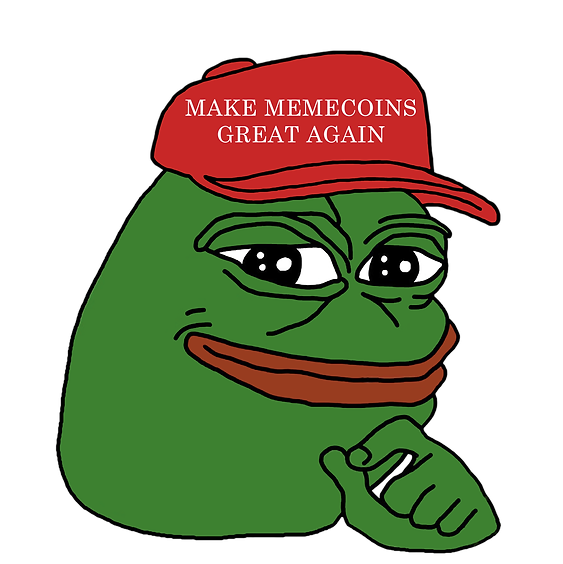
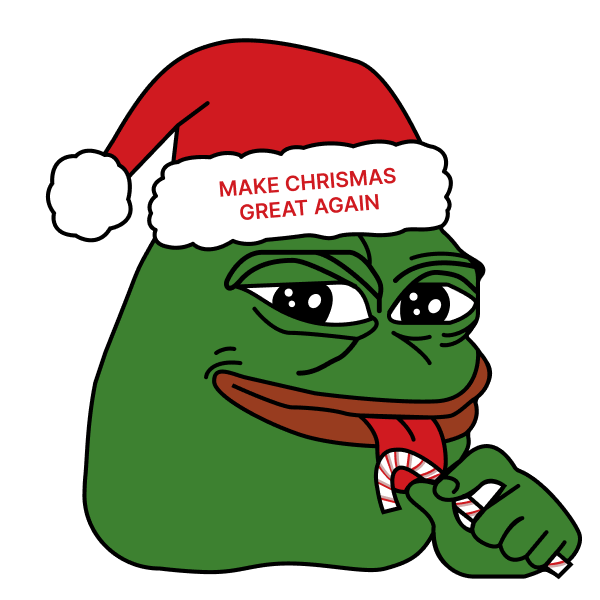
final fixing

diff --git a/index.html b/index.html
@@ -23,16 +23,16 @@
   <header class="header">
     <div class="container" id="head">
       <div class="logo">
-        <img src="./images/pepe_header.png" alt="logo image" class="logo_image">
+        <img src="./images/pepe_header.svg" alt="logo image" class="logo_image">
         <h3 class="name">Pepe Xmas</h3>
       </div>
       <div class="burger" id="burger_button">
       </div>
       <div class="links" id="link_block">
         <div class="links_wrapper">
-          <a href="#about" class="link">About</a>
-          <a href="#how_to_buy" class="link">How to buy</a>
-          <a href="#tokenomic" class="link">Tokenomics</a>
+          <a href="#about" class="link">about</a>
+          <a href="#how_to_buy" class="link">how to buy</a>
+          <a href="#tokenomic" class="link">tokenomics</a>
           <a href="#" class="link" id="button_link">Buy now</a>        </div>
         </div>
     </div>
@@ -42,11 +42,11 @@
       <div class="main_info">
         <div class="paragraph">
           <h2 class="title" id="main_title">$PXMAS</h2>
-          <p class="main_text">The most memeable memecoin |in existence.The dogs have had their day, it’s time for Pepe to take reign.</p>
+          <p class="main_text">The most memeable memecoin is staging a comeback. Even the dogs are getting gifts on this Christmas. It's time for Pepe to lead the New Year's Bull Run.</p>
           <div class="icons">
-            <img src="./images/new_icons/twitter.webp" alt="icon" class="paragraph_icon">
-            <img src="./images/new_icons/dextools.webp" alt="icon" class="paragraph_icon">
-            <img src="./images/new_icons/etherscan.webp" alt="icon" class="paragraph_icon">
+            <img src="./images/new_icons/X.svg" alt="icon" class="paragraph_icon">
+            <img src="./images/new_icons/dextools.svg" alt="icon" class="paragraph_icon">
+            <img src="./images/new_icons/etherscan.svg" alt="icon" class="paragraph_icon">
             <img src="./images/new_icons/uniswap.webp" alt="icon" class="paragraph_icon">
           </div>
         </div>
@@ -65,8 +65,8 @@
       <div class="about_text">
         <h2 class="title" id="about_title">About</h2>
         <div class="about_paragraph_block">
-          <p class="about_paragraph">Pepe to take reign. Pepe is tired of watching everyone play hot potato with the endless derivative TurboAssFlokiMoon Inu coins. The Inu’s have had their day. It’s time for the most recognizable meme in the world to take his reign as king of the memes.</p>
-          <p class="about_paragraph">Pepe is here to make memecoins great again. Launched stealth with no presale, zero taxes, LP burnt and contract renounced, $PXMAS is a coin for the people, forever. Fueled by pure memetic power, let $PEPE show you the way.</p>
+          <p class="about_paragraph">It's time for the most recognizable meme in the world to get into the holiday spirit with Santa. Pepe has brought along green candles and gingerbread for his holders. Even the bears and dogs will get gifts!</p>
+          <p class="about_paragraph">Pepe is back to make Christmas great again! Launched surreptitiously with no presale, zero taxes, LP burnt and contract renounced, $PXMAS the most New Year's coin of the year. Along with the bulls, Pepe will get you in the New Year's spirit!</p>
         </div>
       </div>
     </div>
@@ -118,7 +118,7 @@
   <img src="./images/line.svg" alt="line" class="bottom_line">
   <section class="tokenomic" id="tokenomic">
     <div class="container" id="container_tokenomic">
-      <h2 class="title" id="tokenomic_title">Tokenomic</h2>
+      <h2 class="title" id="tokenomic_title">Tokenomics</h2>
       <div class="tokenomic_content">
         <div class="tokenomic_paragraph">
           <h4 class="paragraph_title">Token Supply:</h4>
@@ -137,7 +137,7 @@
     <div class="container" id="container_footer">
       <h2 class="title" id="footer_title">Join Us!</h2>
       <div class="footer_icon">
-        <img src="./images/new_icons/twitter.webp" alt="icon" width="80" height="80">
+        <img src="./images/new_icons/X.svg" alt="icon" width="80" height="80">
       </div>
       <p class="footer_description">$PXMAS coin has no association with Matt Furie or his creation Pepe the Frog.<br>This token is simply paying homage to a meme we all love and recognize.</p>
       <p class="footer_description" >$PXMAS is a meme coin with no intrinsic value or expectation of financial<br>return. There is no formal team or roadmap. the coin is completely useless<br>and for entertainment purposes only.</p>

diff --git a/css/style.css b/css/style.css
@@ -26,7 +26,7 @@ html {
 
 body{
     overflow-x: hidden;
-    background-color: #3D8130;
+    background-color: #4C9541;
     background-image: url("../images/background_image.png");
     background-repeat: no-repeat;
     background-position: left 0 top 200px;
@@ -165,6 +165,7 @@ body{
 }
 
 #about_title {
+    margin-top: 35px;
     margin-bottom: 10px;
 }
 
